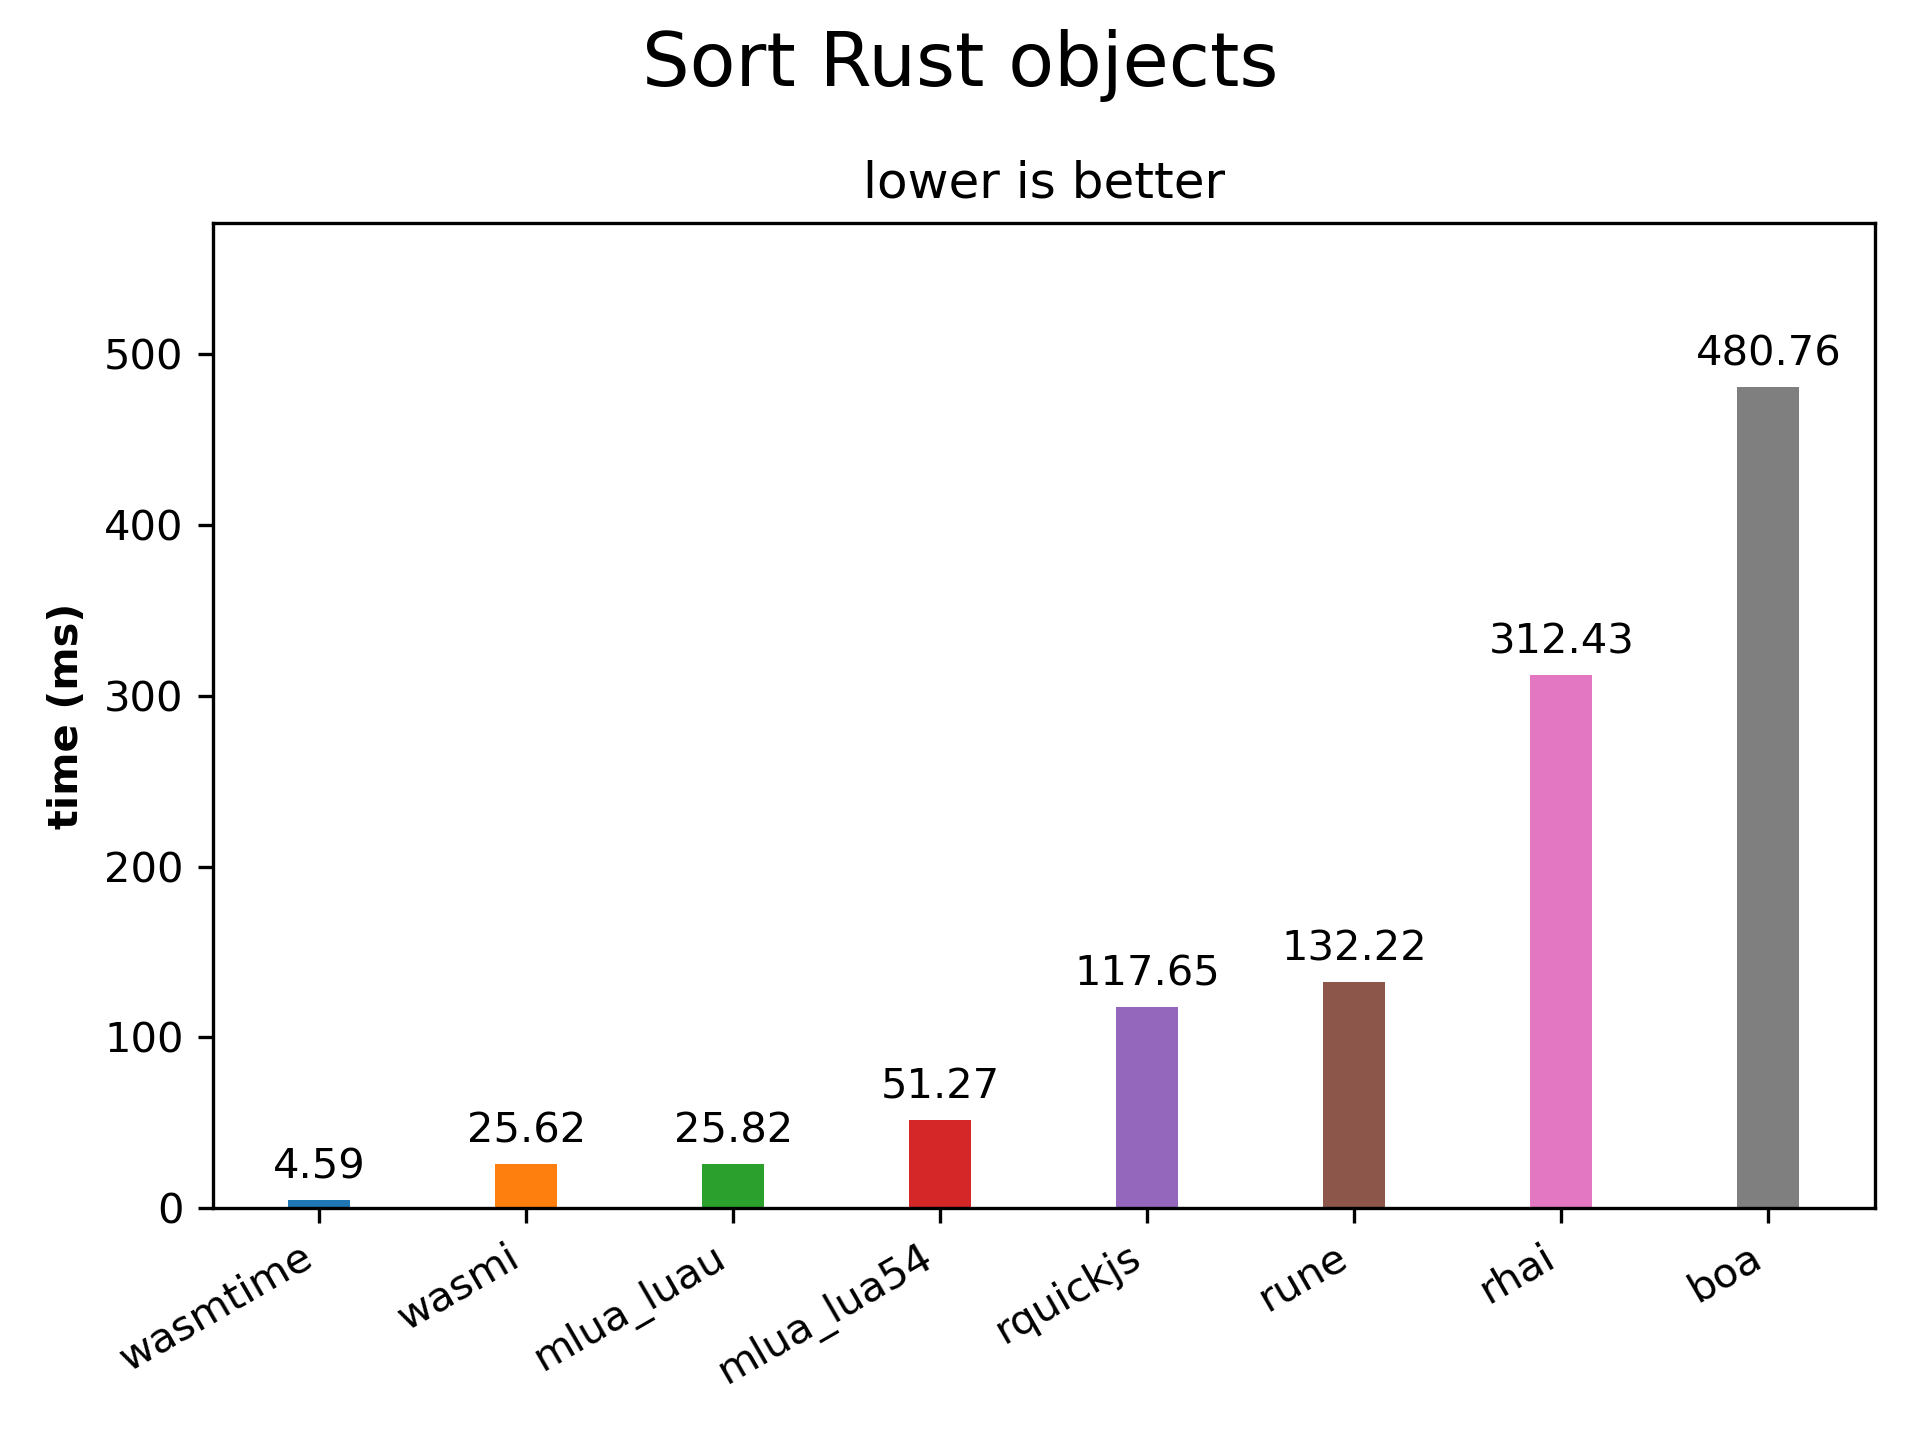
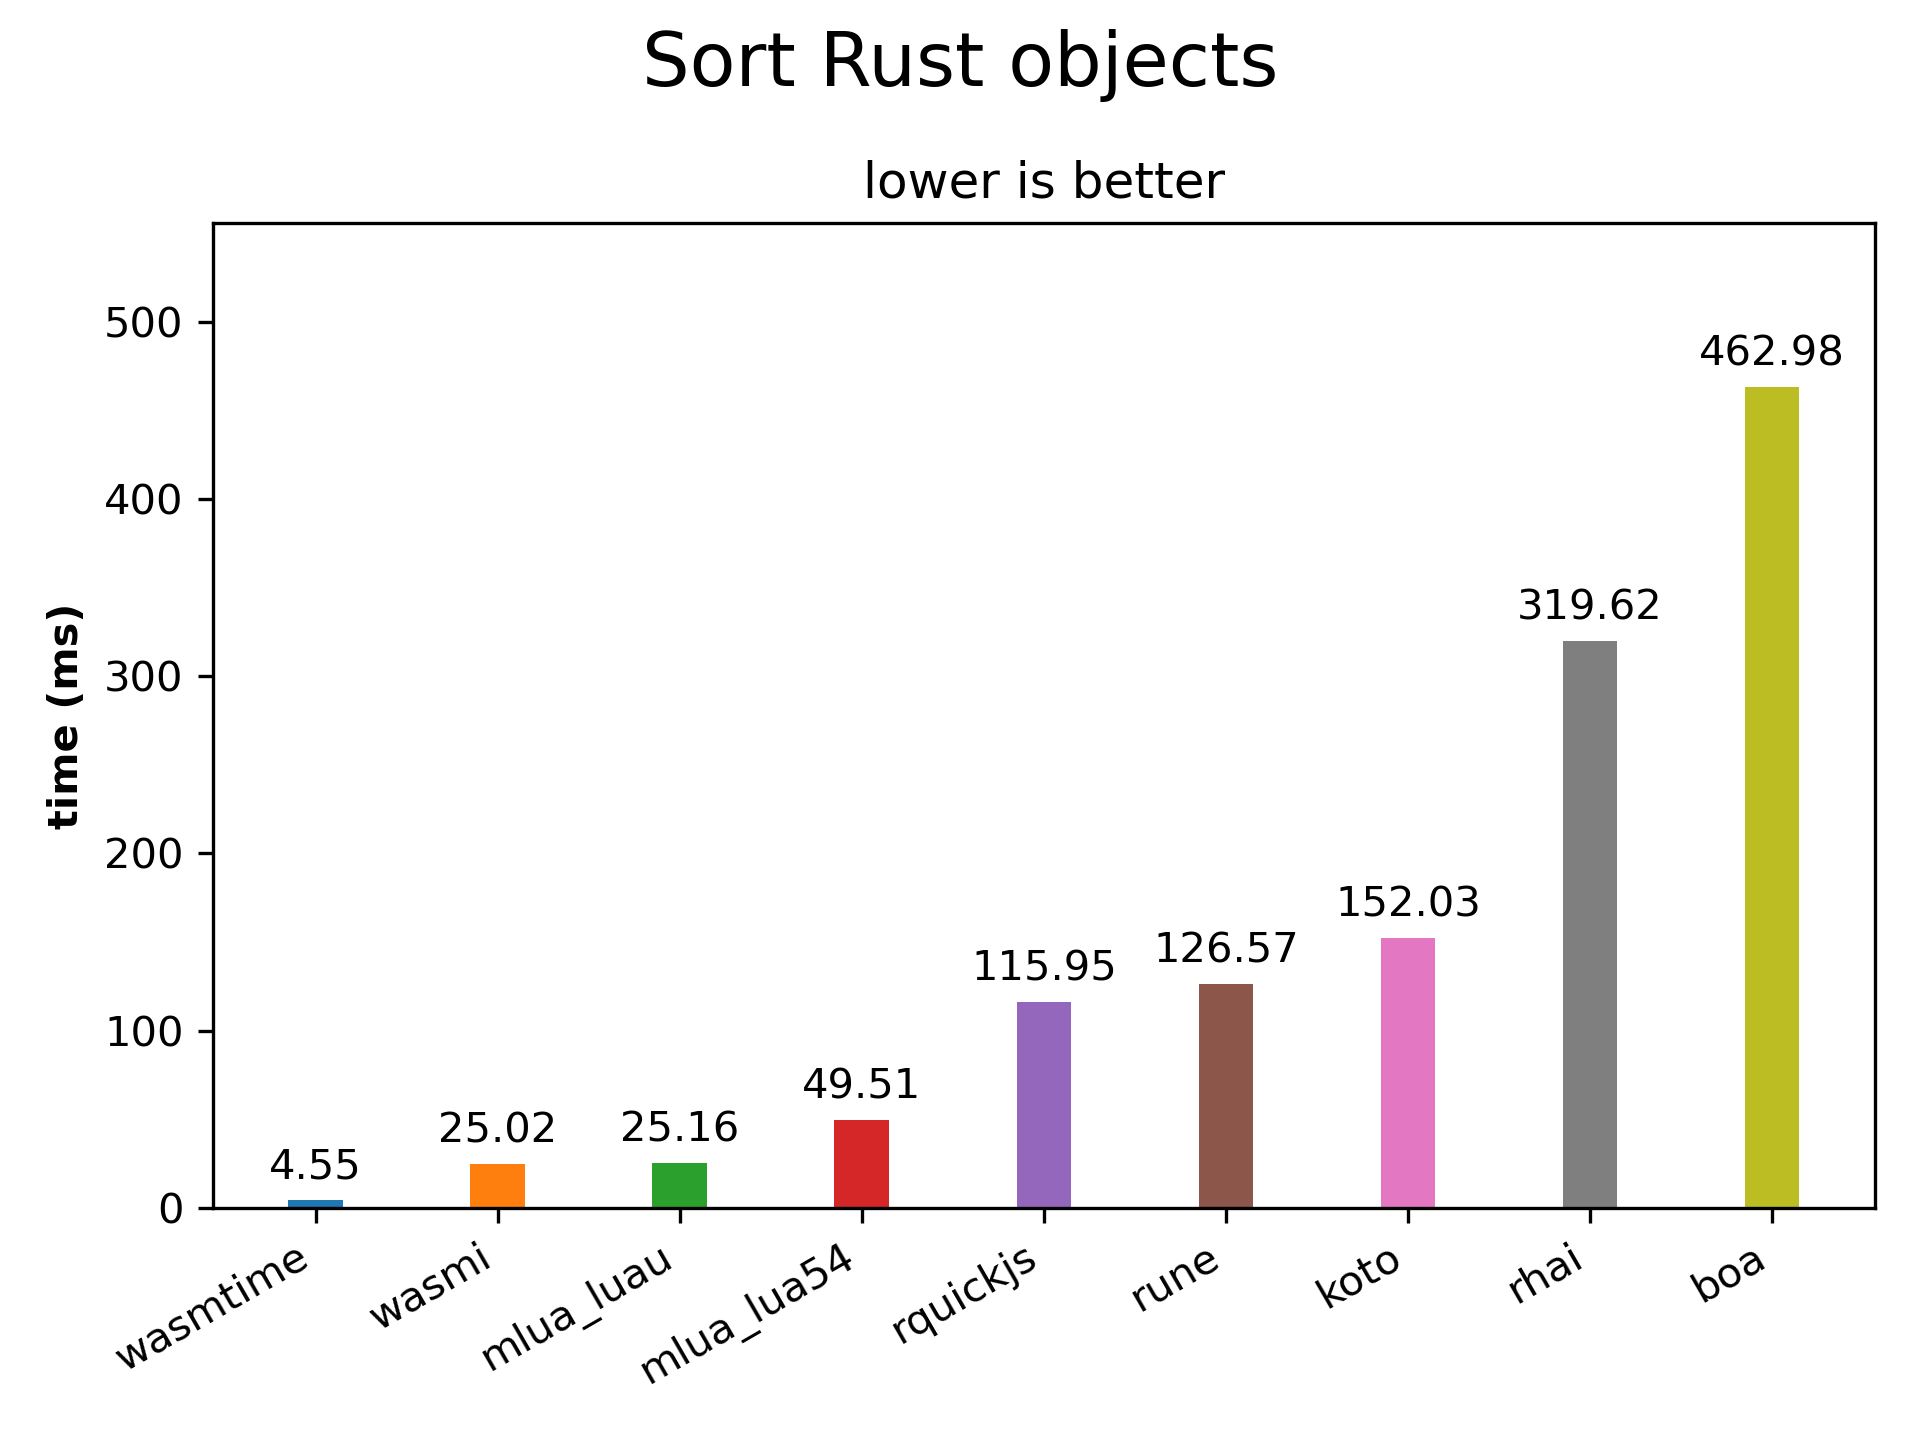
Update results

diff --git a/README.md b/README.md
@@ -38,4 +38,4 @@ You also must have `wasm32-unknown-unknown` target installed for webassembly ben
 
 ![Sort Rust objects](Sort%20Rust%20objects.png)
 
-Rev 1742649567
+Rev 1744299507
